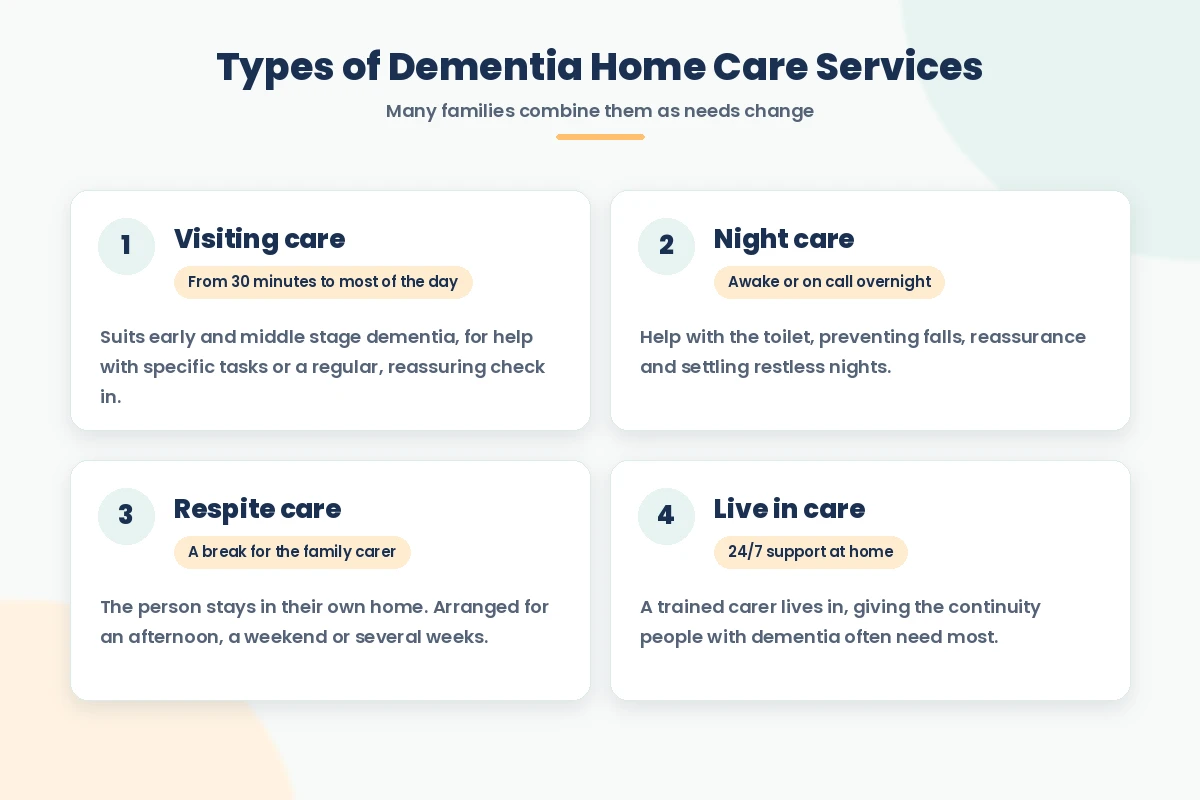
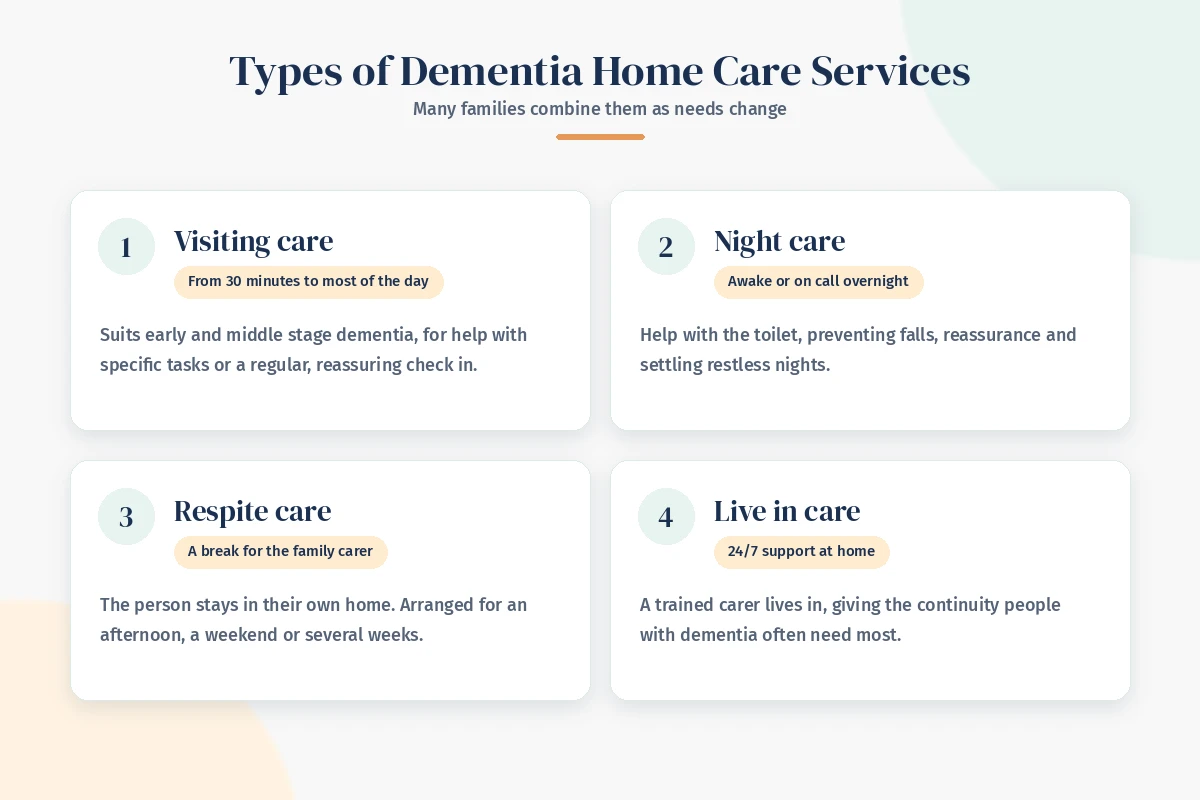
Restyle dementia care images to match Greenwood homepage hero
Orange curved panel over the photo, real logo, serif headings and the site's
sampled colours (#e59a58, #1a3052, #9ccbc2, #f8f8f8).

Claude-Session: https://claude.ai/code/session_012iSs7UT5B2wZwFj8sHQe5L

diff --git a/blog-images/dementia-care-at-home/src/greenwood.py b/blog-images/dementia-care-at-home/src/greenwood.py
@@ -7,16 +7,16 @@ G = D + '/g/'
 F = D + '/fonts/'
 OUT = sys.argv[2]
 W, H = 1200, 800  # 3:2, same shape as the site's recent featured images (1024x683)
-NAVY = (27, 48, 81)      # #1b3051 logo wordmark
-TEAL = (147, 206, 196)   # #93cec4 logo icon
-AMBER = (255, 192, 110)  # #ffc06e logo icon
-TEAL_PALE = (231, 244, 241)
-BG = (248, 250, 249)
+NAVY = (26, 48, 82)      # #1a3052 hero button / logo wordmark
+TEAL = (156, 203, 194)   # #9ccbc2 logo leaves
+AMBER = (229, 154, 88)   # #e59a58 hero panel / Get Started button
+TEAL_PALE = (232, 243, 240)
+BG = (248, 248, 248)     # #f8f8f8 page background
 GREY = (84, 98, 118)
 WHITE = (255, 255, 255)
-fB = lambda s: ImageFont.truetype(F + 'Poppins-Bold.ttf', s)
-fX = lambda s: ImageFont.truetype(F + 'Poppins-ExtraBold.ttf', s)
-fS = lambda s: ImageFont.truetype(F + 'Poppins-SemiBold.ttf', s)
+fX = lambda s: ImageFont.truetype(F + 'DMSerifDisplay-Regular.ttf', int(s * 1.15))  # serif headings, as on the site
+fB = lambda s: ImageFont.truetype(F + 'FiraSans-SemiBold.ttf', s)
+fS = lambda s: ImageFont.truetype(F + 'FiraSans-Medium.ttf', s)
 
 
 def soft(base, shape_fn, col, op=255, blur=0):
@@ -53,26 +53,36 @@ def pill(d, x, y, text, font, fg, bg, padx=18, h=38):
     return tw + 2 * padx
 
 
-# ---------- featured ----------
+# ---------- featured: mirrors the homepage hero (orange panel with a curved edge over a photo) ----------
 img = Image.new('RGBA', (W, H), BG + (255,))
-ph = Image.open(G + 'ph/carer.jpg').convert('RGB')
-ph = ph.resize((W, int(ph.height * W / ph.width)), Image.LANCZOS)
-top_h = 520
-img.paste(ph.crop((0, 50, W, 50 + top_h)), (0, 0))
-# gentle curved edge into the text panel
-EL = (-1400, top_h - 60, W + 1400, top_h + 1400)  # wide, gentle curve
-soft(img, lambda dd, op: dd.ellipse(EL, fill=op), BG, 255, 1)
-soft(img, lambda dd, op: dd.arc(EL, 180, 360, fill=op, width=6), TEAL, 255, 0)
+ph = Image.open(G + 'ph/carer2.jpg').convert('RGB')
+ph = ph.resize((int(ph.width * 820 / ph.height), 820), Image.LANCZOS)
+img.paste(ph, (W - ph.width + 150, -10))
+yy, xx = np.mgrid[0:H, 0:W].astype(np.float32)
+edge = 700 * np.sqrt(np.clip(1 - ((H - yy) / 1000) ** 2, 0, 1))  # bulges right towards the bottom
+panel = np.clip(edge - xx + 0.5, 0, 1)
+lay = Image.new('RGBA', (W, H), AMBER + (255,))
+lay.putalpha(Image.fromarray((panel * 255).astype(np.uint8)))
+img.alpha_composite(lay)
 d = ImageDraw.Draw(img)
-pill(d, 60, 500, 'UK GUIDE FOR FAMILIES', fB(16), NAVY, AMBER, 20, 40)
-d.text((56, 556), 'Dementia Care at Home', font=fX(62), fill=NAVY)
-d.text((60, 640), 'The Complete UK Guide for Families', font=fS(28), fill=GREY)
-x = 60
-for t in ['Care options', 'Stages & support', '2026 costs', 'Funding help']:
-    x += pill(d, x, 704, t, fS(17), NAVY, TEAL_PALE, 18, 40) + 12
-url = 'greenwoodhomecare.co.uk'
-uw = d.textlength(url, font=fS(16))
-d.text((W - 60 - uw, 716), url, font=fS(16), fill=GREY)
+logo = Image.open(G + 'site/logo.png').convert('RGBA')
+logo = logo.resize((int(logo.width * 50 / logo.height), 50), Image.LANCZOS)
+d.rounded_rectangle((52, 44, 52 + logo.width + 40, 44 + 50 + 28), 16, fill=WHITE)
+img.alpha_composite(logo, (72, 58))
+d = ImageDraw.Draw(img)
+y = 196
+for ln in ['Dementia Care', 'at Home']:
+    d.text((60, y), ln, font=ImageFont.truetype(F + 'DMSerifDisplay-Regular.ttf', 78), fill=WHITE)
+    y += 92
+y += 18
+for ln in ['The Complete UK Guide', 'for Families']:
+    d.text((62, y), ln, font=ImageFont.truetype(F + 'FiraSans-Medium.ttf', 34), fill=WHITE)
+    y += 44
+btn = 'Care options, 2026 costs and funding'
+bf = ImageFont.truetype(F + 'FiraSans-SemiBold.ttf', 22)
+bw = d.textlength(btn, font=bf)
+d.rounded_rectangle((60, 548, 60 + bw + 64, 612), 10, fill=NAVY)
+d.text((92, 563), btn, font=bf, fill=WHITE)
 img.convert('RGB').save(OUT + '/dementia-care-at-home-featured.webp', quality=90)
 img.convert('RGB').save(OUT + '/dementia-care-at-home-featured.jpg', quality=92)
 img.convert('RGB').save(OUT + '/dementia-care-at-home-featured.png')
